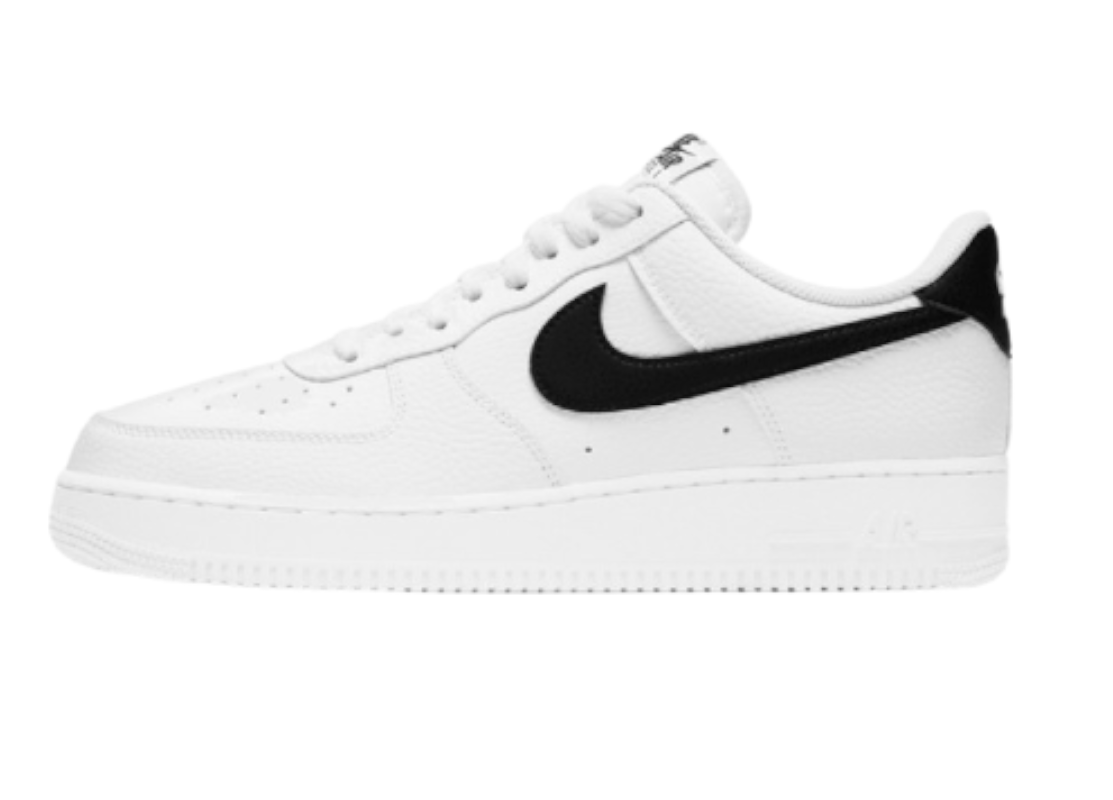
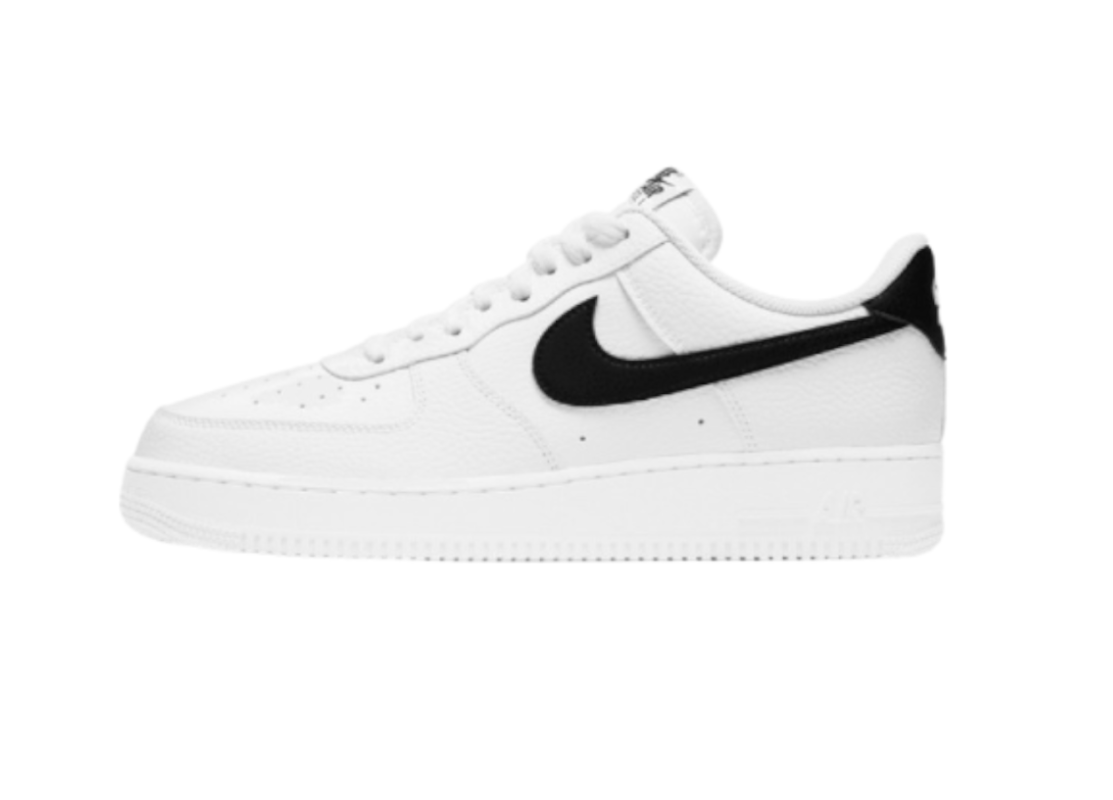
ea7_af1 kepmeretezese

diff --git a/cipok/EA7_röviszárú.html b/cipok/EA7_röviszárú.html
@@ -30,11 +30,11 @@
                   <img src="../img/cipők/főoldal/EA7 rövid  szárú 1.png" class="d-block w-100" alt="...">
                 </div>
                 <div class="carousel-item" data-bs-interval="2000">
-                  <img src="../img/cipők/EA7 rövid szárú/EA7 rövid  szárú 2.png" class="d-block w-100" alt="..." style="margin-top: 60px;">
+                  <img src="../img/cipők/EA7 rövid szárú/EA7 rövid  szárú 2.png" class="d-block w-100" alt="..." >
   
                 </div>
                 <div class="carousel-item">
-                  <img style="width: 60%"src="../img/cipők/EA7 rövid szárú/EA7 rövid  szárú 3.png" class="d-block w-100" alt="..." style="margin-top: -50px;">
+                  <img style="width: 60%"src="../img/cipők/EA7 rövid szárú/EA7 rövid  szárú 3.png" class="d-block w-100" alt="..." >
                 </div>
               </div>
               <button class="carousel-control-prev" type="button" data-bs-target="#carouselExampleDark" data-bs-slide="prev">
